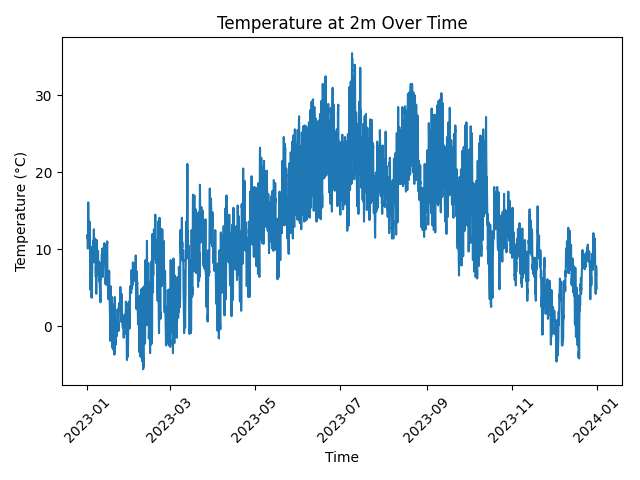
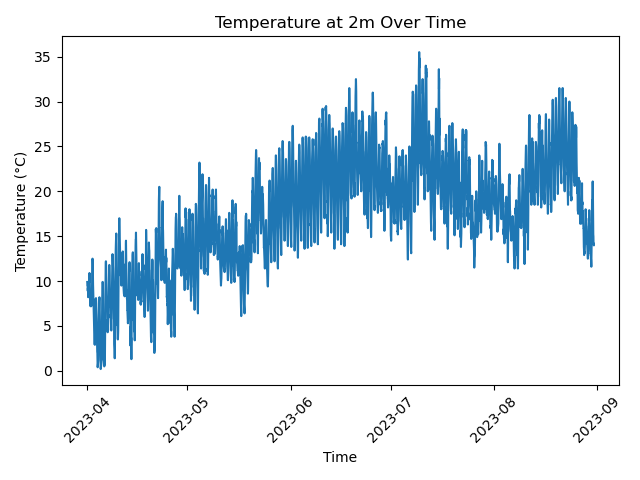
final changes (docker output)

diff --git a/README.md b/README.md
@@ -93,15 +93,8 @@ Monthly mean cloud cover:
 
 2023-07: 59.503
 
-2023-08: 58.191
+2023-08: 57.717
 
-2023-09: 46.003
-
-2023-10: 71.669
-
-2023-11: 81.401
-
-2023-12: 89.369
 
 ## Links
 
